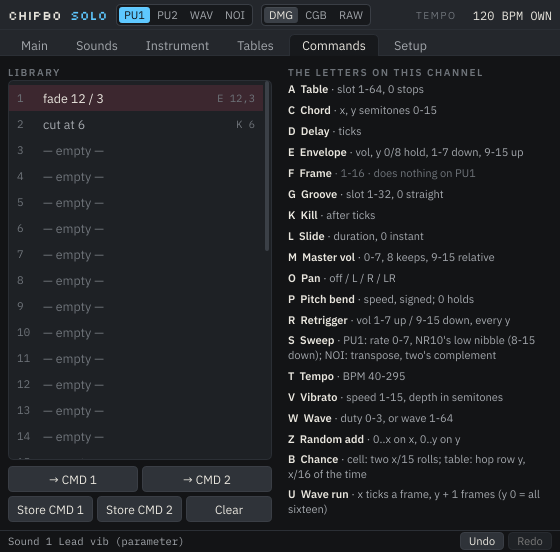
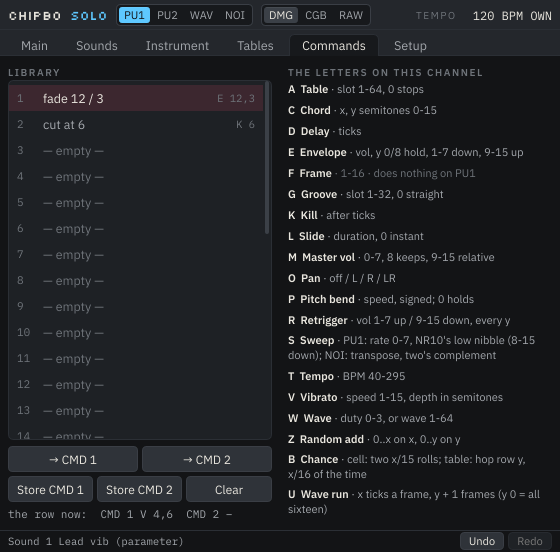
Solo: the scope's trace, clearer Setup labels, the row's commands on the Commands page
A user-view round: the Setup page chooses the scope's trace (digital,
analog or both, the analog one following the model's corner), its labels
say what they switch, the Commands page shows the row's two commands it
stores from, and the Sounds list says how it works and which letters each
sound carries.

Claude-Session: https://claude.ai/code/session_017xjfhsuF4KGRWmf3FzZwSg

Changed region(s): [[0.0, 0.8007, 0.4857, 0.9547], [0.4554, 0.4312, 0.4857, 0.462]]

diff --git a/Source/plugin/solo/SoloEditor.cpp b/Source/plugin/solo/SoloEditor.cpp
@@ -257,6 +257,10 @@ void SoloStrip::tick()
     regs_.setState(processor_.scopes().state[size_t(ch)].load(std::memory_order_acquire));
     refreshInstrumentName();
     refreshSoundName();
+    if (const int model = paramValue(processor_, solo::ids::model); model != modelShown_) {
+        modelShown_ = model;
+        scope_.setAnalogCornerHz(model == 2 ? 0.0 : model == 1 ? 338.0 : 25.0);   // RAW has no analog trace; CGB's corner, DMG's
+    }
     if (ch == 2) {
         const auto b = processor_.bank();
         const bank::Instrument* inst = b ? b->instrument(v.instrument) : nullptr;
@@ -381,7 +385,7 @@ private:
 
 SoundsPanel::SoundsPanel(SoloProcessor& p)
     : EditorPanel(p), processor_(p),
-      listTitle_("Sounds", Fonts::caption(10.0f, true), colours::textDim), keysTitle_("Keys outside the range", Fonts::caption(10.0f, true), colours::textDim),
+      listTitle_(String("Sounds ") + String(CharPointer_UTF8("\xc2\xb7")) + " double-click recalls, Enter renames", Fonts::caption(10.0f, true), colours::textDim), keysTitle_("Keys outside the range", Fonts::caption(10.0f, true), colours::textDim),
       keysHelp_({}, Fonts::sans(11.0f), colours::textDim),
       recallBtn_("Recall"), storeBtn_("Store here"), clearBtn_("Clear"), defaultKeysBtn_("Default"), clearKeysBtn_("Clear"),
       keyMap_("Key map on")
@@ -436,6 +440,10 @@ void SoundsPanel::rebuildList()
         if (snd.used) {
             const bank::Instrument* inst = b ? b->instrument(snd.inst) : nullptr;
             r.note = snd.inst == 0 ? "bare" : ValueFormat::slot(snd.inst) + (inst ? " " + String(inst->name) : String());
+            String letters;
+            if (snd.table) letters += " T";
+            for (const auto* cmd : { &snd.cmd1, &snd.cmd2 }) if (cmd->cmd != bank::Cmd::None) letters += String(" ") + bank::cmdLetter(cmd->cmd);
+            if (letters.isNotEmpty()) r.note += String(CharPointer_UTF8(" \xc2\xb7")) + letters;
         }
     }
     list_.setRows(rows);
@@ -525,11 +533,12 @@ void SoundsPanel::resized()
 CommandsPanel::CommandsPanel(SoloProcessor& p)
     : EditorPanel(p), processor_(p),
       listTitle_("Library", Fonts::caption(10.0f, true), colours::textDim), refTitle_("The letters on this channel", Fonts::caption(10.0f, true), colours::textDim),
+      rowLine_({}, Fonts::mono(11.0f), colours::textMute),
       use1Btn_(String(CharPointer_UTF8("\xe2\x86\x92 CMD 1"))), use2Btn_(String(CharPointer_UTF8("\xe2\x86\x92 CMD 2"))),
       store1Btn_("Store CMD 1"), store2Btn_("Store CMD 2"), clearBtn_("Clear")
 {
     listTitle_.setUpperCase(true); refTitle_.setUpperCase(true);
-    for (auto* c : std::initializer_list<Component*>{ &list_, &listTitle_, &refTitle_, &use1Btn_, &use2Btn_, &store1Btn_, &store2Btn_, &clearBtn_, &reference_ })
+    for (auto* c : std::initializer_list<Component*>{ &list_, &listTitle_, &refTitle_, &rowLine_, &use1Btn_, &use2Btn_, &store1Btn_, &store2Btn_, &clearBtn_, &reference_ })
         addAndMakeVisible(c);
     list_.setKindColours([](int) { return colours::text; });
     list_.onSelect = [this](int slot) { entry_ = slot; contextChanged(); };
@@ -595,6 +604,19 @@ void CommandsPanel::rebuildReference()
 
 void CommandsPanel::soloChanged() { rebuildList(); }
 void CommandsPanel::channelChanged() { rebuildReference(); }
+
+/// The row's two commands as they stand -- what Store keeps and what a
+/// library entry replaces -- since the Main page is not in view here.
+void CommandsPanel::tick()
+{
+    const driver::ChannelParams row = processor_.params.read(ChannelKind::Any);
+    String line = "the row now:";
+    for (int i = 0; i < 2; ++i) {
+        const auto& c = row.cmd[i];
+        line += "  CMD " + String(i + 1) + " " + (c.cmd == bank::Cmd::None ? String(CharPointer_UTF8("\xe2\x80\x93")) : String(bank::cmdLetter(c.cmd)) + " " + commandValueText(c, ValueFormat::hex()));
+    }
+    if (line != rowShown_) { rowShown_ = line; rowLine_.setText(line); }
+}
 void CommandsPanel::hexChanged() { rowsFor_ = nullptr; rebuildList(); repaint(); }
 
 RichText CommandsPanel::contextLine() const
@@ -611,6 +633,8 @@ void CommandsPanel::resized()
     auto area = getLocalBounds();
     auto left = area.removeFromLeft(area.getWidth() / 2 - 8);
     listTitle_.setBounds(left.removeFromTop(16));
+    rowLine_.setBounds(left.removeFromBottom(16));
+    left.removeFromBottom(4);
     auto row2 = left.removeFromBottom(26);
     left.removeFromBottom(4);
     auto row1 = left.removeFromBottom(26);
@@ -641,14 +665,14 @@ SetupPanel::SetupPanel(SoloProcessor& p) : EditorPanel(p), processor_(p)
         play->add("Velocity", std::move(seg), 300, 22, "What a note's velocity does: the start volume, which instrument bank slot it picks, or nothing");
     }
     {
-        auto t = std::make_unique<Toggle>("Live follow");
+        auto t = std::make_unique<Toggle>("Changes reach the sounding note");
         t->attach(param(processor_, processor_.channelParamId(0, ids::liveFollow)));
-        play->add("Changes", std::move(t), 300, Toggle::kHeight, "On, a change of instrument, table, level, pan or transpose reaches the sounding note; off, the next one");
+        play->add("Live follow", std::move(t), 300, Toggle::kHeight, "On, a change of instrument, table, level, pan or transpose reaches the sounding note; off, the next one");
     }
     {
-        auto t = std::make_unique<Toggle>("Quantize notes to ticks");
+        auto t = std::make_unique<Toggle>("Notes wait for the next tick");
         t->attach(param(processor_, solo::ids::notesOnTick));
-        play->add("Timing", std::move(t), 300, Toggle::kHeight, "A note waits for the next tick, as a tracker's would; off, it plays where it lands");
+        play->add("Quantize", std::move(t), 300, Toggle::kHeight, "A note waits for the next tick, as a tracker's would; off, it plays where it lands");
     }
     {
         auto t = std::make_unique<Toggle>("Keys outside the range select sounds");
@@ -692,6 +716,13 @@ SetupPanel::SetupPanel(SoloProcessor& p) : EditorPanel(p), processor_(p)
         t->attach(param(processor_, solo::ids::hexDisplay));
         out->add("Display", std::move(t), 300, Toggle::kHeight, "Values in hex, counting like LSDj, or in decimal");
     }
+    {
+        auto seg = std::make_unique<Segmented>(StringArray{ "digital", "analog", "both" });
+        seg->setMini(true);
+        seg->setSelected(storedTrace(processor_), dontSendNotification);
+        seg->onChange = [this](int i) { processor_.apvts.state.setProperty("ui_scope_trace", i, nullptr); if (onScopeTrace) onScopeTrace(i); };
+        out->add("Scope", std::move(seg), 240, 22, "The chip's steps, the analog stage's output after the coupling, or both over each other");
+    }
     stack->add(std::move(out));
     auto files = std::make_unique<FormGroup>("Files", 130);
     {
@@ -714,6 +745,8 @@ SetupPanel::SetupPanel(SoloProcessor& p) : EditorPanel(p), processor_(p)
 }
 
 SetupPanel::~SetupPanel() = default;
+
+int SetupPanel::storedTrace(const SoloProcessor& p) { return std::clamp(int(p.apvts.state.getProperty("ui_scope_trace", 2)), 0, 2); }
 
 RichText SetupPanel::contextLine() const
 {
@@ -835,7 +868,12 @@ SoloEditor::SoloEditor(SoloProcessor& p)
     panels_[Waves] = std::make_unique<WavesPanel>(processor_);
     panels_[Kits] = std::make_unique<KitsPanel>(processor_);
     panels_[Commands] = std::make_unique<CommandsPanel>(processor_);
-    panels_[Setup] = std::make_unique<SetupPanel>(processor_);
+    {
+        auto setup = std::make_unique<SetupPanel>(processor_);
+        setup->onScopeTrace = [this](int t) { strip_.setScopeTrace(t == 1 ? ScopeView::Trace::Analog : t == 2 ? ScopeView::Trace::Both : ScopeView::Trace::Digital); };
+        panels_[Setup] = std::move(setup);
+    }
+    { const int t = SetupPanel::storedTrace(processor_); strip_.setScopeTrace(t == 1 ? ScopeView::Trace::Analog : t == 2 ? ScopeView::Trace::Both : ScopeView::Trace::Digital); }
     for (auto& panel : panels_) {
         if (!panel) continue;                      // Main is the strip, not a panel
         panel->setCompact(true);

diff --git a/Source/plugin/solo/SoloEditor.h b/Source/plugin/solo/SoloEditor.h
@@ -34,6 +34,8 @@ public:
     void bankChanged();
     void soloChanged();
     void hexChanged();
+    /// The scope's trace, chosen on the Setup page and kept in the state.
+    void setScopeTrace(ui::ScopeView::Trace t) { scope_.setTrace(t); }
     std::function<void(ui::SlotKind, int slot)> onOpenSlot;
     std::function<void(int slot)> onOpenSound;
     void paint(juce::Graphics&) override;
@@ -60,6 +62,7 @@ private:
     const bank::Bank* namesFor_ = nullptr;
     const SoloState* soundsFor_ = nullptr;
     int instrumentShown_ = -1, loadedInstrument_ = 0, soundShown_ = -1;
+    int modelShown_ = -1;
     juce::String noteShown_;
     JUCE_DECLARE_NON_COPYABLE_WITH_LEAK_DETECTOR(SoloStrip)
 };
@@ -109,15 +112,17 @@ public:
     void soloChanged();
     void channelChanged();
     void hexChanged() override;
+    void tick() override;
     void resized() override;
 private:
     void rebuildList();
     void rebuildReference();
     SoloProcessor& processor_;
     ui::SlotList list_;
-    TextLine listTitle_, refTitle_;
+    TextLine listTitle_, refTitle_, rowLine_;
     juce::TextButton use1Btn_, use2Btn_, store1Btn_, store2Btn_, clearBtn_;
     ScrollBlock reference_;
+    juce::String rowShown_;
     int entry_ = 1;
     int refForChannel_ = -1;
     const SoloState* rowsFor_ = nullptr;
@@ -131,6 +136,9 @@ public:
     ~SetupPanel() override;
     RichText contextLine() const override;
     void resized() override;
+    /// The scope's trace (0 digital, 1 analog, 2 both), kept as "ui_scope_trace".
+    std::function<void(int)> onScopeTrace;
+    static int storedTrace(const SoloProcessor& p);
 private:
     void saveFile();
     void loadFile();

diff --git a/docs/COMMANDS_AND_TEMPO.md b/docs/COMMANDS_AND_TEMPO.md
@@ -6823,7 +6823,12 @@ ChipBoy Voice, which stays in the tree this round.
   Tables, Waves and Kits (on WAV only), Commands, Setup (the user's note after the first
   build: the settings as pages of their own, so the window can be small with the
   oscilloscope on top). The status line carries the page's context line, a message for
-  five seconds when there is one, and undo / redo. The size is what the widest page needs:
+  five seconds when there is one, and undo / redo. Setup holds what the row does not:
+  velocity mode, Live follow, Quantize, the key map, tempo source and own tempo, volume,
+  trim, Hex, the scope's trace (digital, analog or both, kept in the state as
+  `ui_scope_trace`; the analog trace follows the model's corner) and the files. The
+  Commands page shows the row's two commands as they stand, since Main is not in view
+  there; the Sounds list names the instrument and the letters each sound carries. The size is what the widest page needs:
   the Tables page shows all sixteen steps and the written-as column without scrolling.
   The four bank editors run in a **compact mode** (`EditorPanel::setCompact`): no slot
   list down the left, a slot stepper -- its right click lists the bank by name
